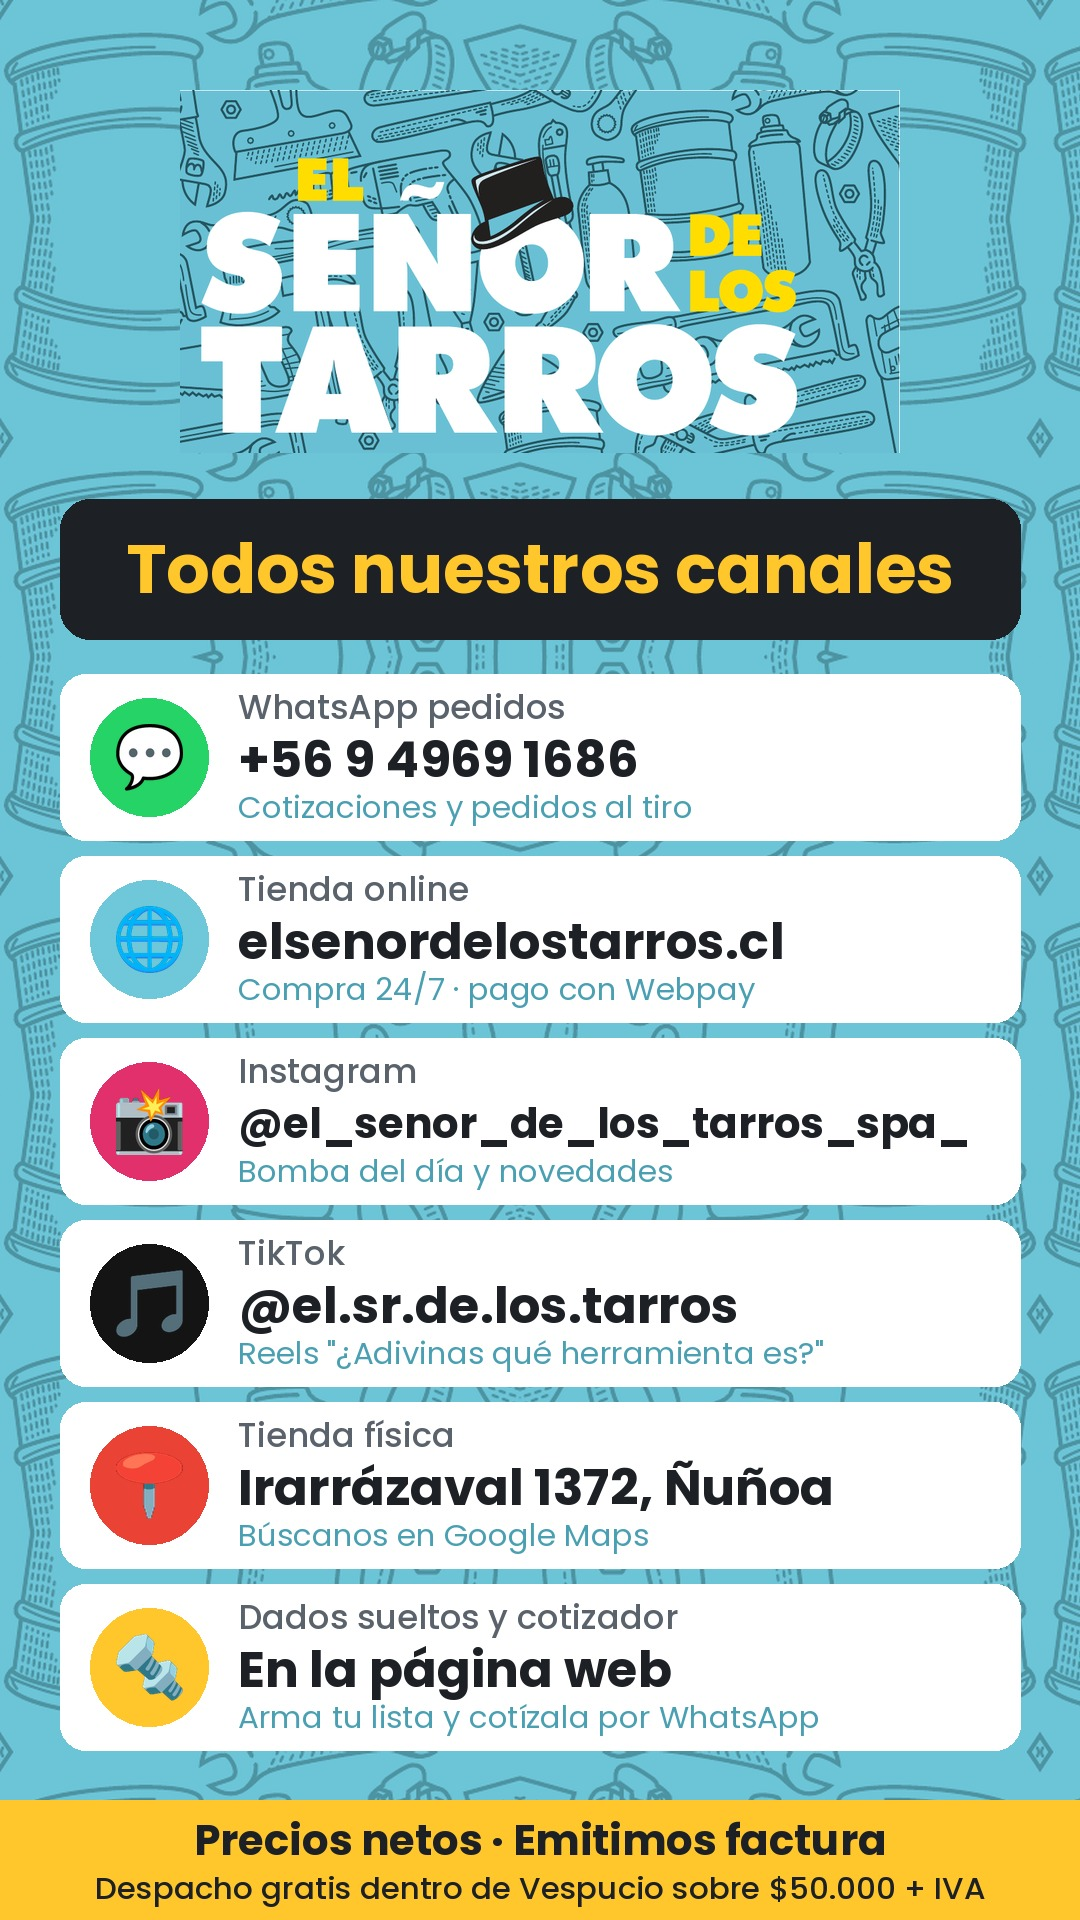
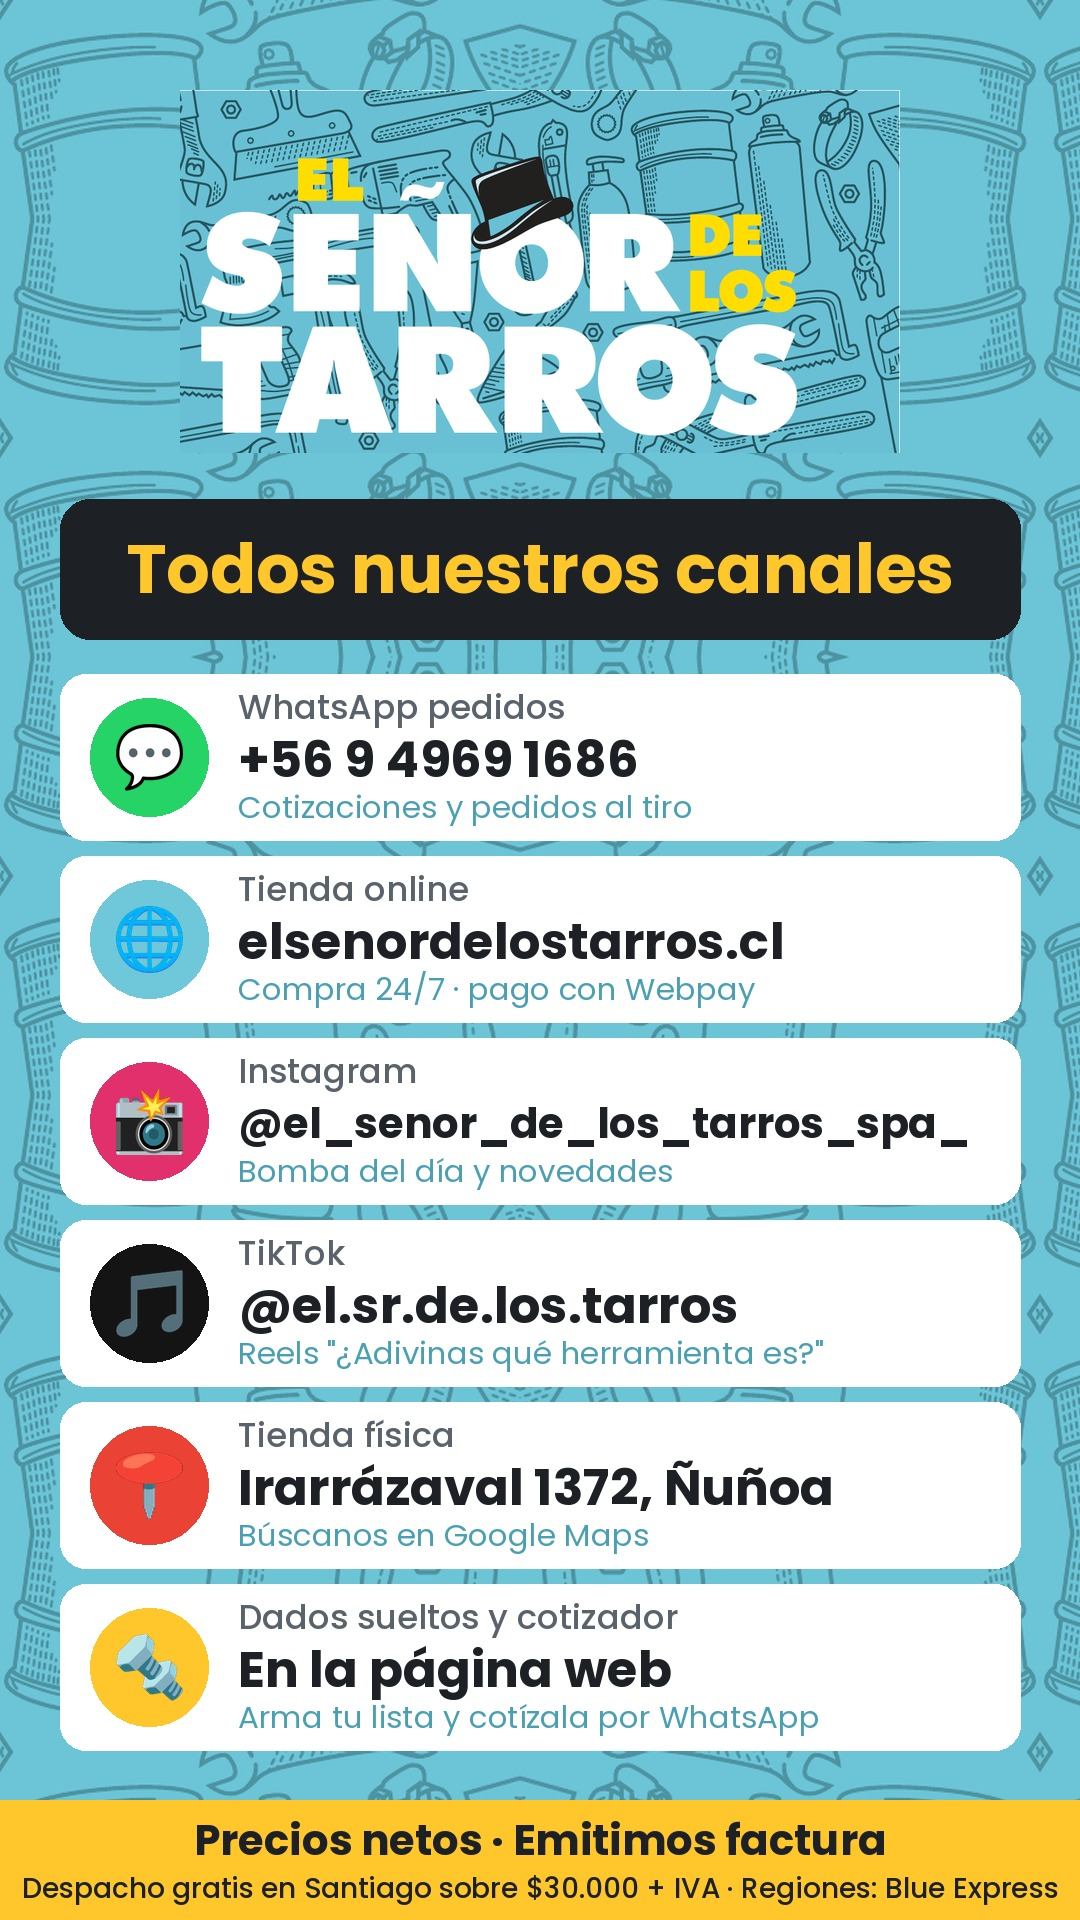
Despacho: gratis en Santiago sobre $30.000 + IVA, regiones por Blue Express
Claude-Session: https://claude.ai/code/session_019tT9kU319vz6tyRg5R6Xsn

Changed region(s): [[0.0306, 0.9688, 0.9778, 1.0]]

diff --git a/links.html b/links.html
@@ -54,7 +54,7 @@ footer{text-align:center;color:var(--gris);font-size:12px;margin-top:24px;line-h
     <div class="ring"><div role="img" aria-label="Logo El Señor de los Tarros"></div></div>
     <h1>El Señor de los Tarros</h1>
     <p class="handle">@el_senor_de_los_tarros_spa_ · Insumos para talleres</p>
-    <p class="lema">Herramientas, químicos, insumos y seguridad para tu taller. Venta con factura · Despacho gratis dentro de Vespucio sobre $50.000 + IVA.</p>
+    <p class="lema">Herramientas, químicos, insumos y seguridad para tu taller. Venta con factura · Despacho gratis en Santiago sobre $30.000 + IVA · Regiones por Blue Express (pagas al recibir).</p>
     <nav class="quick" aria-label="Accesos rápidos">
       <a href="https://wa.me/56949691686?text=Hola%2C%20vengo%20de%20Instagram%20y%20quiero%20cotizar" aria-label="WhatsApp"><svg viewBox="0 0 24 24"><path d="M12 2a10 10 0 0 0-8.6 15.1L2 22l5-1.3A10 10 0 1 0 12 2zm0 18.2c-1.5 0-3-.4-4.3-1.2l-.3-.2-3 .8.8-2.9-.2-.3A8.2 8.2 0 1 1 12 20.2zm4.5-6.1c-.2-.1-1.5-.7-1.7-.8-.2-.1-.4-.1-.6.1l-.8 1c-.1.2-.3.2-.5.1a6.7 6.7 0 0 1-3.3-2.9c-.3-.4.3-.4.7-1.4.1-.2 0-.3 0-.4l-.8-1.8c-.2-.5-.4-.4-.6-.4h-.5a1 1 0 0 0-.7.3 3 3 0 0 0-.9 2.2 5.2 5.2 0 0 0 1.1 2.7 11.8 11.8 0 0 0 4.5 4c1.7.7 2.3.8 3.1.6a2.7 2.7 0 0 0 1.8-1.2 2.2 2.2 0 0 0 .2-1.2c-.1-.2-.3-.2-.5-.3z"/></svg></a>
       <a href="https://www.instagram.com/el_senor_de_los_tarros_spa_/" aria-label="Instagram"><svg viewBox="0 0 24 24"><path d="M12 7.3A4.7 4.7 0 1 0 16.7 12 4.7 4.7 0 0 0 12 7.3zm0 7.7a3 3 0 1 1 3-3 3 3 0 0 1-3 3zm6-7.9a1.1 1.1 0 1 1-1.1-1.1A1.1 1.1 0 0 1 18 7.1zM21.9 8.2a5.4 5.4 0 0 0-1.5-3.8 5.4 5.4 0 0 0-3.8-1.5C15 2.8 9 2.8 7.4 2.9a5.4 5.4 0 0 0-3.8 1.5 5.4 5.4 0 0 0-1.5 3.8c-.1 1.6-.1 6.4 0 8a5.4 5.4 0 0 0 1.5 3.8 5.4 5.4 0 0 0 3.8 1.5c1.6.1 7.6.1 9.2 0a5.4 5.4 0 0 0 3.8-1.5 5.4 5.4 0 0 0 1.5-3.8c.1-1.6.1-6.4 0-8zm-2 9.7a3.2 3.2 0 0 1-1.8 1.8c-1.3.5-4.3.4-5.6.4s-4.4.1-5.6-.4a3.2 3.2 0 0 1-1.8-1.8c-.5-1.3-.4-4.3-.4-5.7s-.1-4.4.4-5.6a3.2 3.2 0 0 1 1.8-1.8c1.3-.5 4.3-.4 5.6-.4s4.4-.1 5.6.4a3.2 3.2 0 0 1 1.8 1.8c.5 1.3.4 4.3.4 5.6s.1 4.4-.4 5.7z"/></svg></a>

diff --git a/cotizador.html b/cotizador.html
@@ -186,7 +186,7 @@ details.card[open] summary h2:after{content:"−"}
       <div><label for="nombre">Tu nombre <b style="color:#E0473A">*</b></label><input type="text" id="nombre" placeholder="Obligatorio"><small id="errNombre" style="display:none;color:#E0473A;font-size:12px;font-weight:600">Escribe tu nombre para continuar</small></div>
       <div><label for="comuna">Comuna de despacho</label><input type="text" id="comuna" placeholder="Opcional"></div>
     </div>
-    <p class="nota">Precios netos (sin IVA) de nuestro catálogo, referenciales: confirmamos precio y stock al responder. Despacho en 24 horas, gratis dentro de Américo Vespucio en compras sobre $50.000 + IVA. Emitimos factura.</p>
+    <p class="nota">Precios netos (sin IVA) de nuestro catálogo, referenciales: confirmamos precio y stock al responder. Despacho en 24 horas, gratis en Santiago en compras sobre $30.000 + IVA. Emitimos factura.</p>
     <div class="acciones no-pdf">
       <button class="btn amar" id="enviar">Enviar por WhatsApp</button>
       <button class="btn turq" id="pdf">Descargar PDF</button>

diff --git a/banner.html b/banner.html
@@ -286,7 +286,7 @@ nav.cat a.cot svg{stroke:#1D2126}
        '<div class="media" style="background-image:url(banner-bomba-celular.jpg)">'+card+'</div>'+
        card.replace('class="card"','class="card bo-pc"')+
        '<div class="tx"><span class="tag">'+x[0]+'</span><h2 style="font-size:28px">'+x[1]+'</h2>'+pr+
-       '<p class="hoy">Precio neto · emitimos factura · despacho gratis dentro de Vespucio sobre $50.000 + IVA</p>'+
+       '<p class="hoy">Precio neto · emitimos factura · despacho gratis en Santiago sobre $30.000 + IVA · regiones por Blue Express</p>'+
        '<a class="btn" target="_top" href="https://elsenordelostarros.cl/'+x[2]+'">Comprar</a></div></div>';
   });
   ref.insertAdjacentHTML('afterend',h); ref.parentNode.removeChild(ref);

diff --git a/soluciones/rodamiento-de-masa.html b/soluciones/rodamiento-de-masa.html
@@ -121,7 +121,7 @@ footer b{color:var(--amar)}
 <section style="padding-top:0">
   <div class="kit">
     <h2>¿Te armamos el kit completo?</h2>
-    <p>Escríbenos y te mandamos la cotización con factura. Despacho gratis dentro de Américo Vespucio en compras sobre $50.000 + IVA.</p>
+    <p>Escríbenos y te mandamos la cotización con factura. Despacho gratis en Santiago en compras sobre $30.000 + IVA; a regiones por Blue Express, pagas al recibir.</p>
     <a class="btn wsp" id="wsp2" href="#">💬 Cotizar por WhatsApp +56 9 4969 1686</a>
   </div>
 </section>

diff --git a/trabajo/scripts/cotizacion_siglo21_medidor.py b/trabajo/scripts/cotizacion_siglo21_medidor.py
@@ -1,0 +1,43 @@
+from reportlab.lib.pagesizes import A4
+from reportlab.pdfgen import canvas
+from reportlab.lib.colors import HexColor, white
+from reportlab.lib.utils import ImageReader
+W,H=A4; C=HexColor('#1D2126'); Y=HexColor('#FFC72C'); T=HexColor('#6FC8DA'); G=HexColor('#5b646d'); L=HexColor('#e3e7eb')
+out='trabajo/cotizaciones/Cotizacion_Siglo21_Medidor_Frenos_24nov2026.pdf'
+c=canvas.Canvas(out,pagesize=A4); c.setTitle('Cotización Siglo 21 - Medidor de desgaste de frenos')
+def cl(v): return '$'+f'{round(v):,}'.replace(',','.')
+# encabezado
+c.setFillColor(C); c.rect(0,H-120,W,120,fill=1,stroke=0)
+logo=ImageReader('trabajo/marca/logo-encabezado-ancho-v2.jpg'); iw,ih=logo.getSize(); lh=44; c.drawImage(logo,36,H-82,width=lh*iw/ih,height=lh)
+c.setFillColor(Y); c.setFont('Helvetica-Bold',22); c.drawRightString(W-36,H-58,'COTIZACIÓN')
+c.setFillColor(white); c.setFont('Helvetica',10); c.drawRightString(W-36,H-76,'N° 2026-1124-01'); c.drawRightString(W-36,H-90,'Fecha: 24 de noviembre de 2026')
+c.setFillColor(T); c.rect(0,H-126,W,6,fill=1,stroke=0)
+# cliente
+y=H-160; c.setFillColor(C); c.setFont('Helvetica-Bold',11); c.drawString(36,y,'Señores:')
+c.setFont('Helvetica',10)
+for i,t in enumerate(['Comercial Automotriz Siglo XXI Ltda.','RUT 78.770.630-4','Bellavista 0170','Atención: Sr. Rodrigo Arriagada']): c.drawString(36,y-15-14*i,t)
+c.setFont('Helvetica-Bold',11); c.drawString(330,y,'De:'); c.setFont('Helvetica',10)
+for i,t in enumerate(['El Señor de los Tarros SPA','Renato González Madrid','WhatsApp +56 9 4969 1686','elsenordelostarros.cl']): c.drawString(330,y-15-14*i,t)
+# tabla
+y=H-250; c.setFillColor(C); c.rect(36,y,W-72,24,fill=1,stroke=0); c.setFillColor(white); c.setFont('Helvetica-Bold',10)
+cols=[(46,'Código'),(120,'Descripción'),(360,'Cant.'),(410,'P. unitario'),(495,'Total')]
+for x,t in cols: c.drawString(x,y+8,t)
+y-=230; c.setStrokeColor(L); c.setFillColor(HexColor('#ffffff')); c.rect(36,y,W-72,230,fill=1,stroke=1); y+=80
+img=ImageReader('ms2-medidor-de-desgaste-de-frenos.jpg'); c.drawImage(img,150,y-76,width=104,height=104,mask='auto')
+c.setFillColor(C); c.setFont('Helvetica-Bold',10); c.drawString(46,y+126,'MDF8H')
+c.drawString(120,y+126,'Medidor de desgaste de pastillas de freno')
+c.setFont('Helvetica',9); c.setFillColor(G)
+for i,t in enumerate(['• 8 láminas: 2, 3, 4, 5, 6, 8, 10 y 12 mm','• Código de colores: rojo = cambiar,','   amarillo = revisar pronto, verde = OK','• Mide el espesor de la pastilla sin','   desmontar la rueda','• Láminas de aluminio con remache central']): c.drawString(120,y+108-13*i,t)
+c.setFillColor(C); c.setFont('Helvetica',10); c.drawString(368,y+126,'1'); c.drawString(410,y+126,cl(18900)); c.drawString(495,y+126,cl(18900))
+# totales
+y-=160; neto=18900; iva=round(neto*0.19)
+for i,(k,v) in enumerate([('Neto',neto),('IVA 19%',iva)]):
+    c.setFont('Helvetica',10); c.setFillColor(C); c.drawString(400,y+50-16*i,k); c.drawRightString(W-46,y+50-16*i,cl(v))
+c.setFillColor(Y); c.rect(390,y-4,W-426,26,fill=1,stroke=0); c.setFillColor(C); c.setFont('Helvetica-Bold',12); c.drawString(400,y+5,'TOTAL'); c.drawRightString(W-46,y+5,cl(neto+iva))
+# condiciones
+y-=50; c.setFont('Helvetica-Bold',11); c.drawString(36,y,'Condiciones'); c.setFont('Helvetica',9.5); c.setFillColor(G)
+for i,t in enumerate(['• Precios netos en pesos chilenos; se agrega IVA 19%. Emitimos factura.','• Validez de la cotización: 15 días.','• Despacho en 24 horas. Sin costo dentro de Américo Vespucio en compras sobre $50.000 + IVA.','• Sujeto a disponibilidad de stock al momento de confirmar.']): c.drawString(36,y-16-14*i,t)
+# pie
+c.setFillColor(C); c.rect(0,0,W,46,fill=1,stroke=0); c.setFillColor(white); c.setFont('Helvetica-Bold',10)
+c.drawCentredString(W/2,26,'El Señor de los Tarros SPA · Insumos para talleres automotrices e industria'); c.setFillColor(Y); c.setFont('Helvetica',9); c.drawCentredString(W/2,12,'WhatsApp +56 9 4969 1686 · elsenordelostarros.cl')
+c.save(); print(out)

diff --git a/trabajo/scripts/cotizacion_siglo21_llave17.py b/trabajo/scripts/cotizacion_siglo21_llave17.py
@@ -1,0 +1,43 @@
+from reportlab.lib.pagesizes import A4
+from reportlab.pdfgen import canvas
+from reportlab.lib.colors import HexColor, white
+from reportlab.lib.utils import ImageReader
+W,H=A4; C=HexColor('#1D2126'); Y=HexColor('#FFC72C'); T=HexColor('#6FC8DA'); G=HexColor('#5b646d'); L=HexColor('#e3e7eb')
+out='trabajo/cotizaciones/Cotizacion_Siglo21_Llave_Chicharra_17mm_24nov2026.pdf'
+c=canvas.Canvas(out,pagesize=A4); c.setTitle('Cotización Siglo 21 - Llave punta corona con chicharra 17 mm')
+def cl(v): return '$'+f'{round(v):,}'.replace(',','.')
+# encabezado
+c.setFillColor(C); c.rect(0,H-120,W,120,fill=1,stroke=0)
+logo=ImageReader('trabajo/marca/logo-encabezado-ancho-v2.jpg'); iw,ih=logo.getSize(); lh=44; c.drawImage(logo,36,H-82,width=lh*iw/ih,height=lh)
+c.setFillColor(Y); c.setFont('Helvetica-Bold',22); c.drawRightString(W-36,H-58,'COTIZACIÓN')
+c.setFillColor(white); c.setFont('Helvetica',10); c.drawRightString(W-36,H-76,'N° 2026-1124-02'); c.drawRightString(W-36,H-90,'Fecha: 24 de noviembre de 2026')
+c.setFillColor(T); c.rect(0,H-126,W,6,fill=1,stroke=0)
+# cliente
+y=H-160; c.setFillColor(C); c.setFont('Helvetica-Bold',11); c.drawString(36,y,'Señores:')
+c.setFont('Helvetica',10)
+for i,t in enumerate(['Comercial Automotriz Siglo XXI Ltda.','RUT 78.770.630-4','Bellavista 0170','Atención: Sr. Rodrigo Arriagada']): c.drawString(36,y-15-14*i,t)
+c.setFont('Helvetica-Bold',11); c.drawString(330,y,'De:'); c.setFont('Helvetica',10)
+for i,t in enumerate(['El Señor de los Tarros SPA','Renato González Madrid','WhatsApp +56 9 4969 1686','elsenordelostarros.cl']): c.drawString(330,y-15-14*i,t)
+# tabla
+y=H-250; c.setFillColor(C); c.rect(36,y,W-72,24,fill=1,stroke=0); c.setFillColor(white); c.setFont('Helvetica-Bold',10)
+cols=[(46,'Código'),(120,'Descripción'),(360,'Cant.'),(410,'P. unitario'),(495,'Total')]
+for x,t in cols: c.drawString(x,y+8,t)
+y-=230; c.setStrokeColor(L); c.setFillColor(HexColor('#ffffff')); c.rect(36,y,W-72,230,fill=1,stroke=1); y+=80
+img=ImageReader('/tmp/ll-trim.jpg'); c.drawImage(img,120,y-74,width=260,height=100,preserveAspectRatio=True,anchor='w',mask='auto')
+c.setFillColor(C); c.setFont('Helvetica-Bold',10); c.drawString(46,y+126,'YT-0198')
+c.drawString(120,y+126,'Llave punta corona con chicharra 17 mm YATO')
+c.setFont('Helvetica',9); c.setFillColor(G)
+for i,t in enumerate(['• Chicharra de 72 dientes (giro corto de 5°)','• Punta abierta y corona con chicharra','• Marca YATO, línea profesional','• Ideal para espacios reducidos']): c.drawString(120,y+108-13*i,t)
+c.setFillColor(C); c.setFont('Helvetica',10); c.drawString(368,y+126,'1'); c.drawString(410,y+126,cl(13739)); c.drawString(495,y+126,cl(13739))
+# totales
+y-=160; neto=13739; iva=round(neto*0.19)
+for i,(k,v) in enumerate([('Neto',neto),('IVA 19%',iva)]):
+    c.setFont('Helvetica',10); c.setFillColor(C); c.drawString(400,y+50-16*i,k); c.drawRightString(W-46,y+50-16*i,cl(v))
+c.setFillColor(Y); c.rect(390,y-4,W-426,26,fill=1,stroke=0); c.setFillColor(C); c.setFont('Helvetica-Bold',12); c.drawString(400,y+5,'TOTAL'); c.drawRightString(W-46,y+5,cl(neto+iva))
+# condiciones
+y-=50; c.setFont('Helvetica-Bold',11); c.drawString(36,y,'Condiciones'); c.setFont('Helvetica',9.5); c.setFillColor(G)
+for i,t in enumerate(['• Precios netos en pesos chilenos; se agrega IVA 19%. Emitimos factura.','• Validez de la cotización: 15 días.','• Despacho en 24 horas. Sin costo dentro de Américo Vespucio en compras sobre $50.000 + IVA.','• Sujeto a disponibilidad de stock al momento de confirmar.']): c.drawString(36,y-16-14*i,t)
+# pie
+c.setFillColor(C); c.rect(0,0,W,46,fill=1,stroke=0); c.setFillColor(white); c.setFont('Helvetica-Bold',10)
+c.drawCentredString(W/2,26,'El Señor de los Tarros SPA · Insumos para talleres automotrices e industria'); c.setFillColor(Y); c.setFont('Helvetica',9); c.drawCentredString(W/2,12,'WhatsApp +56 9 4969 1686 · elsenordelostarros.cl')
+c.save(); print(out)

diff --git a/trabajo/scripts/cotizacion_siglo21_ventiladores.py b/trabajo/scripts/cotizacion_siglo21_ventiladores.py
@@ -1,0 +1,43 @@
+from reportlab.lib.pagesizes import A4
+from reportlab.pdfgen import canvas
+from reportlab.lib.colors import HexColor, white
+from reportlab.lib.utils import ImageReader
+W,H=A4; C=HexColor('#1D2126'); Y=HexColor('#FFC72C'); T=HexColor('#6FC8DA'); G=HexColor('#5b646d'); L=HexColor('#e3e7eb')
+out='trabajo/cotizaciones/Cotizacion_Siglo21_Ventiladores_26nov2026.pdf'
+c=canvas.Canvas(out,pagesize=A4); c.setTitle('Cotización Siglo 21 - Ventiladores de pie')
+def cl(v): return '$'+f'{round(v):,}'.replace(',','.')
+# encabezado
+c.setFillColor(C); c.rect(0,H-120,W,120,fill=1,stroke=0)
+logo=ImageReader('trabajo/marca/logo-encabezado-ancho-v2.jpg'); iw,ih=logo.getSize(); lh=44; c.drawImage(logo,36,H-82,width=lh*iw/ih,height=lh)
+c.setFillColor(Y); c.setFont('Helvetica-Bold',22); c.drawRightString(W-36,H-58,'COTIZACIÓN')
+c.setFillColor(white); c.setFont('Helvetica',10); c.drawRightString(W-36,H-76,'N° 2026-1126-01'); c.drawRightString(W-36,H-90,'Fecha: 26 de noviembre de 2026')
+c.setFillColor(T); c.rect(0,H-126,W,6,fill=1,stroke=0)
+# cliente
+y=H-160; c.setFillColor(C); c.setFont('Helvetica-Bold',11); c.drawString(36,y,'Señores:')
+c.setFont('Helvetica',10)
+for i,t in enumerate(['Comercial Automotriz Siglo XXI Ltda.','RUT 78.770.630-4','Bellavista 0170','Atención: Sr. Rodrigo Arriagada']): c.drawString(36,y-15-14*i,t)
+c.setFont('Helvetica-Bold',11); c.drawString(330,y,'De:'); c.setFont('Helvetica',10)
+for i,t in enumerate(['El Señor de los Tarros SPA','Renato González Madrid','WhatsApp +56 9 4969 1686','elsenordelostarros.cl']): c.drawString(330,y-15-14*i,t)
+# tabla
+y=H-250; c.setFillColor(C); c.rect(36,y,W-72,24,fill=1,stroke=0); c.setFillColor(white); c.setFont('Helvetica-Bold',10)
+cols=[(46,'Código'),(120,'Descripción'),(360,'Cant.'),(410,'P. unitario'),(495,'Total')]
+for x,t in cols: c.drawString(x,y+8,t)
+y-=230; c.setStrokeColor(L); c.setFillColor(HexColor('#ffffff')); c.rect(36,y,W-72,230,fill=1,stroke=1); y+=80
+img=ImageReader('/tmp/vent.jpg'); c.drawImage(img,255,y-76,width=100,height=222,preserveAspectRatio=True,anchor='c',mask='auto')
+c.setFillColor(C); c.setFont('Helvetica-Bold',10); c.drawString(46,y+126,'VENT-PIE')
+c.drawString(120,y+126,'Ventilador de pie')
+c.setFont('Helvetica',9); c.setFillColor(G)
+for i,t in enumerate(['• Ventilador de pie de 5 aspas','• Rejilla metálica','• Altura regulable','• Botonera de velocidades','• Base redonda estable']): c.drawString(120,y+108-13*i,t)
+c.setFillColor(C); c.setFont('Helvetica',10); c.drawString(368,y+126,'2'); c.drawString(410,y+126,cl(34900)); c.drawString(495,y+126,cl(69800))
+# totales
+y-=160; neto=69800; iva=round(neto*0.19)
+for i,(k,v) in enumerate([('Neto',neto),('IVA 19%',iva)]):
+    c.setFont('Helvetica',10); c.setFillColor(C); c.drawString(400,y+50-16*i,k); c.drawRightString(W-46,y+50-16*i,cl(v))
+c.setFillColor(Y); c.rect(390,y-4,W-426,26,fill=1,stroke=0); c.setFillColor(C); c.setFont('Helvetica-Bold',12); c.drawString(400,y+5,'TOTAL'); c.drawRightString(W-46,y+5,cl(neto+iva))
+# condiciones
+y-=50; c.setFont('Helvetica-Bold',11); c.drawString(36,y,'Condiciones'); c.setFont('Helvetica',9.5); c.setFillColor(G)
+for i,t in enumerate(['• Precios netos en pesos chilenos; se agrega IVA 19%. Emitimos factura.','• Validez de la cotización: 15 días.','• Despacho en 24 horas. Sin costo dentro de Américo Vespucio en compras sobre $50.000 + IVA.','• Sujeto a disponibilidad de stock al momento de confirmar.']): c.drawString(36,y-16-14*i,t)
+# pie
+c.setFillColor(C); c.rect(0,0,W,46,fill=1,stroke=0); c.setFillColor(white); c.setFont('Helvetica-Bold',10)
+c.drawCentredString(W/2,26,'El Señor de los Tarros SPA · Insumos para talleres automotrices e industria'); c.setFillColor(Y); c.setFont('Helvetica',9); c.drawCentredString(W/2,12,'WhatsApp +56 9 4969 1686 · elsenordelostarros.cl')
+c.save(); print(out)

diff --git a/trabajo/scripts/reel_adivina.py b/trabajo/scripts/reel_adivina.py
@@ -308,8 +308,8 @@ def frame(t):
         pastilla(c, 'elsenordelostarros.cl', f(FB, 62), 930, TURQ, CARBON, back((u - .8) / .5))
         pastilla(c, 'WhatsApp +56 9 4969 1686', f(FB, 58), 1090, AMAR, CARBON, back((u - 1.1) / .5))
         texto(c, 'Precios netos · Emitimos factura', f(FM, 42), 1290, BLANCO, ease((u - 1.5) / .4))
-        texto(c, 'Despacho gratis dentro de Vespucio', f(FR, 40), 1360, GRIS, ease((u - 1.7) / .4))
-        texto(c, 'sobre $50.000 + IVA', f(FR, 40), 1412, GRIS, ease((u - 1.7) / .4))
+        texto(c, 'Despacho gratis en Santiago', f(FR, 40), 1360, GRIS, ease((u - 1.7) / .4))
+        texto(c, 'sobre $30.000 + IVA · Regiones por Blue Express', f(FR, 36), 1412, GRIS, ease((u - 1.7) / .4))
     return c
 
 n = int(TOTAL * FPS)

diff --git a/trabajo/scripts/canales.py b/trabajo/scripts/canales.py
@@ -63,7 +63,7 @@ def armar(W, H, compacto):
     fy = H - (90 if compacto else 120)
     d.rectangle([0, fy, W, H], fill=AMAR)
     d.text((W // 2, fy + (30 if compacto else 40)), 'Precios netos · Emitimos factura', font=f(FB, 36 if compacto else 42), fill=CARBON, anchor='mm')
-    d.text((W // 2, fy + (66 if compacto else 88)), 'Despacho gratis dentro de Vespucio sobre $50.000 + IVA', font=f(FM, 26 if compacto else 31), fill=CARBON, anchor='mm')
+    d.text((W // 2, fy + (66 if compacto else 88)), 'Despacho gratis en Santiago sobre $30.000 + IVA · Regiones: Blue Express', font=f(FM, 24 if compacto else 28), fill=CARBON, anchor='mm')
     return c.convert('RGB')
 
 armar(1080, 1920, False).save(OUT + '/canales-historia.jpg', quality=92)

diff --git a/trabajo/scripts/estados_wsp.py b/trabajo/scripts/estados_wsp.py
@@ -61,7 +61,7 @@ for i, (nom, cod, det, pre, foto) in enumerate(P, 1):
     # pie
     d.rectangle([0, H - 240, W, H], fill=CARBON)
     d.text((W // 2, H - 170), 'Pídelo por WhatsApp +56 9 4969 1686', font=f(FB, 46), fill=AMAR, anchor='mm')
-    d.text((W // 2, H - 105), 'Despacho gratis dentro de Vespucio sobre $50.000 + IVA', font=f(FM, 32), fill=BLANCO, anchor='mm')
+    d.text((W // 2, H - 105), 'Despacho gratis en Santiago sobre $30.000 + IVA', font=f(FM, 32), fill=BLANCO, anchor='mm')
     d.text((W // 2, H - 55), 'elsenordelostarros.cl', font=f(FR, 30), fill=TURQ, anchor='mm')
     c.save(os.path.join(OUT, f'estado-{i:02d}-{cod.lower()}.jpg'), quality=90)
 print('ok', len(P))
